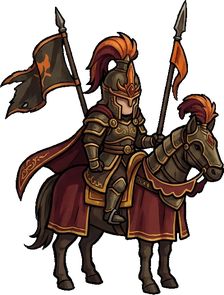
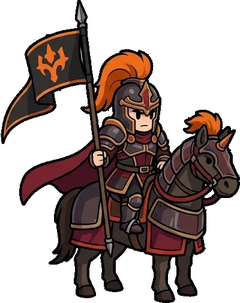
기병 장군(보스 1) 본체를 메인 화풍으로 교체, 체크무늬 배경 제거 도구 추가 (베타 1.287)
Claude-Session: https://claude.ai/code/session_01EFTEodMUbbTSUTixRFZg7z

diff --git a/tools/remove_checker_bg.py b/tools/remove_checker_bg.py
@@ -1,0 +1,109 @@
+#!/usr/bin/env python3
+"""체크무늬(흰색·연회색)로 그려진 '가짜 투명 배경'을 진짜 투명 PNG로 바꾼다.
+
+  python3 tools/remove_checker_bg.py input.webp output.png [--min-v 190] [--pocket-area 10]
+
+생성 도구가 투명 배경이라며 체크무늬를 그림에 구워서 내놓을 때 쓴다(흰 배경만 지우는 `remove_bg.py`는 회색 칸을 못 지운다).
+1. '무채색이고 밝은'(채널 차이 6 이하, 밝기 min-v 이상) 픽셀을 배경 후보로 본다.
+2. 이미지 가장자리에서 이어진 후보를 바깥 배경으로 지운다(어두운 외곽선이 막아 주므로 그림 속은 지워지지 않는다).
+3. 바깥과 이어지지 않은 후보 덩어리(말 다리 사이·창과 깃발 사이 같은 구멍)는 체크무늬의 연회색 칸이 6% 이상 들어 있을 때만 지운다(진짜 흰 물체는 연회색 칸이 없다).
+4. 배경 바로 옆 1px는 어두운 외곽선과 배경이 섞인 회색이라 무채색이고 어두운 정도가 중간이면 지운다. 남는 흰 번짐은 `tools/fix_halo.py`로 정리한다.
+"""
+from __future__ import annotations
+
+import argparse
+import sys
+from collections import deque
+
+import numpy as np
+from PIL import Image
+
+
+def dilate(m: np.ndarray) -> np.ndarray:
+    p = np.pad(m, 1, constant_values=False)
+    return p[1:-1, 1:-1] | p[:-2, 1:-1] | p[2:, 1:-1] | p[1:-1, :-2] | p[1:-1, 2:]
+
+
+def components(mask: np.ndarray) -> list[np.ndarray]:
+    h, w = mask.shape
+    seen = np.zeros_like(mask, dtype=bool)
+    out = []
+    for y0, x0 in zip(*np.where(mask)):
+        if seen[y0, x0]:
+            continue
+        q = deque([(y0, x0)])
+        seen[y0, x0] = True
+        pts = []
+        while q:
+            y, x = q.popleft()
+            pts.append((y, x))
+            for dy, dx in ((1, 0), (-1, 0), (0, 1), (0, -1)):
+                ny, nx = y + dy, x + dx
+                if 0 <= ny < h and 0 <= nx < w and mask[ny, nx] and not seen[ny, nx]:
+                    seen[ny, nx] = True
+                    q.append((ny, nx))
+        out.append(np.array(pts))
+    return out
+
+
+def main() -> int:
+    ap = argparse.ArgumentParser(description=__doc__, formatter_class=argparse.RawDescriptionHelpFormatter)
+    ap.add_argument("src")
+    ap.add_argument("dst")
+    ap.add_argument("--min-v", type=int, default=190)
+    ap.add_argument("--pocket-area", type=int, default=10)
+    args = ap.parse_args()
+
+    rgb = np.asarray(Image.open(args.src).convert("RGB"), dtype=np.int32)
+    h, w, _ = rgb.shape
+    v = rgb.max(-1)
+    neutral = (v - rgb.min(-1)) <= 6
+    cand = neutral & (v >= args.min_v)
+
+    # 바깥 배경: 가장자리에서 이어진 후보
+    bg = np.zeros((h, w), dtype=bool)
+    q = deque()
+    for y in range(h):
+        for x in (0, w - 1):
+            if cand[y, x] and not bg[y, x]:
+                bg[y, x] = True
+                q.append((y, x))
+    for x in range(w):
+        for y in (0, h - 1):
+            if cand[y, x] and not bg[y, x]:
+                bg[y, x] = True
+                q.append((y, x))
+    while q:
+        y, x = q.popleft()
+        for dy, dx in ((1, 0), (-1, 0), (0, 1), (0, -1)):
+            ny, nx = y + dy, x + dx
+            if 0 <= ny < h and 0 <= nx < w and cand[ny, nx] and not bg[ny, nx]:
+                bg[ny, nx] = True
+                q.append((ny, nx))
+
+    # 구멍 속 배경: 체크무늬 두 색이 대부분이면 지운다
+    # 체크무늬의 연회색 칸(밝기 196~210)이 조금이라도(6% 이상) 들어 있으면 배경으로 본다. 진짜 흰 물체(이빨·눈)에는 연회색 칸이 없다.
+    gray = (v >= 196) & (v <= 210)
+    pockets = 0
+    for pts in components(cand & ~bg):
+        if len(pts) < args.pocket_area:
+            continue
+        ys, xs = pts[:, 0], pts[:, 1]
+        if gray[ys, xs].mean() >= 0.06:
+            bg[ys, xs] = True
+            pockets += 1
+
+    # 배경 바로 옆 1px: 외곽선과 배경이 섞인 회색
+    ring = dilate(bg) & ~bg
+    mixed = ring & neutral & (v >= 90)
+    bg2 = bg | mixed
+
+    alpha = np.where(bg2, 0, 255).astype(np.uint8)
+    out = np.dstack([rgb.astype(np.uint8), alpha])
+    Image.fromarray(out, "RGBA").save(args.dst)
+    print(f"{args.src} → {args.dst}: 배경 {bg.mean() * 100:.0f}%, 구멍 {pockets}개, 가장자리 회색 {int(mixed.sum())}px 제거")
+    return 0
+
+
+if __name__ == "__main__":
+    sys.exit(main())

diff --git a/docs/asset-prompts.md b/docs/asset-prompts.md
@@ -15,7 +15,7 @@
 | 투사체 (화살, 아군·적 각 5컷) | 완료, 적용됨 (`assets/fx/`). 속도선 컷으로 날아가고 명중 컷을 잠깐 보여 줌 |
 | 레벨업 카드 아이콘 19종 | 이 문서 7번 |
 | 무기·HUD 아이콘 | 이 문서 8번 |
-| 기병 장군 본체 2포즈(스테이지 1 보스) | 받음, 보관 (`assets/units/boss1_idle.png`, `boss1_attack.png`, 224x295와 295x297). 깃발·창이 길어 일반 유닛(약 120x110)보다 세로가 큽니다. 보스 구현 때 몸통 크기를 맞춰 씁니다 |
+| 기병 장군 본체 2포즈(스테이지 1 보스) | **메인 화풍으로 재제작해 적용됨(베타 1.287)**: `assets/units/boss1_idle.png`(240x303), `boss1_attack.png`(268x295). 예전 그림은 `boss1_idle_old`·`boss1_attack_old`로 보관. 체크무늬 가짜 투명 배경은 `tools/remove_checker_bg.py`로 지우고 `tools/fix_halo.py`로 밝은 테두리를 정리했다. 화면 배율 0.5에서 아군 기병의 약 2.2배 크기 |
 | 기병 장군 선회 베기 호·돌격 함성 오라 | 흰 배경 재요청본을 받아 적용 준비 완료, 보관 (`assets/fx/boss1_slash_0~3.png`, `boss1_cry_0~2.png`). **돌격 함성 3번 컷은 못 받음**(고리가 완전히 닫힌 컷). 처음에 받은 시안에서 오려 둔 이전 그림은 `*_old.png`로 보관 |
 | 기병 장군 돌진 충돌 임팩트 | 섬광 2장(`boss1_impact_0`, `0b`)과 흰 배경 재요청본 연기 3컷(`boss1_impact_1~3`) 모두 받음, 보관 (`assets/fx/`). 3번 연기는 반투명이라 옅다 |
 | 창병 장군 본체 3포즈 + 여분 1 | 받음, 보관 (`assets/units/boss2_idle.png`(113x314), `boss2_guard.png`(창 겨눔, 249x127), `boss2_thrust.png`(278x130), `boss2_guard_b.png`(창 없이 웅크린 자세, 여분)). 시트에 `boss2_guard` 캡션이 둘이라 창을 겨눈 쪽을 방어 자세로 썼다 |
@@ -1160,3 +1160,5 @@ orange and crimson stand out. Facing right.
 네거티브: `realistic, realistic proportions, photo, 3d render, gradients, glossy, painterly texture, thin outline, white outline, white halo, perspective, top-down view, cropped, overlapping items, text`
 
 **받은 뒤 확인**: 두 포즈의 말 발굽 높이가 같은지, 외곽선 바깥에 밝은 테두리가 없는지, 아군 기병(`ally_cavalry`)과 나란히 놓았을 때 같은 화풍으로 보이는지.
+
+**13-1 진행**: 받음, 적용됨(베타 1.287). 같은 화풍으로 보이는지는 아군 기병·창병·검방병과 같은 배율로 나란히 놓아 확인했다. 다음은 같은 보스의 이펙트(선회 베기 호·돌격 함성·돌진 충돌 임팩트, `assets/fx/boss1_*`)를 메인 화풍에 맞춰 다시 받는 것이다.
